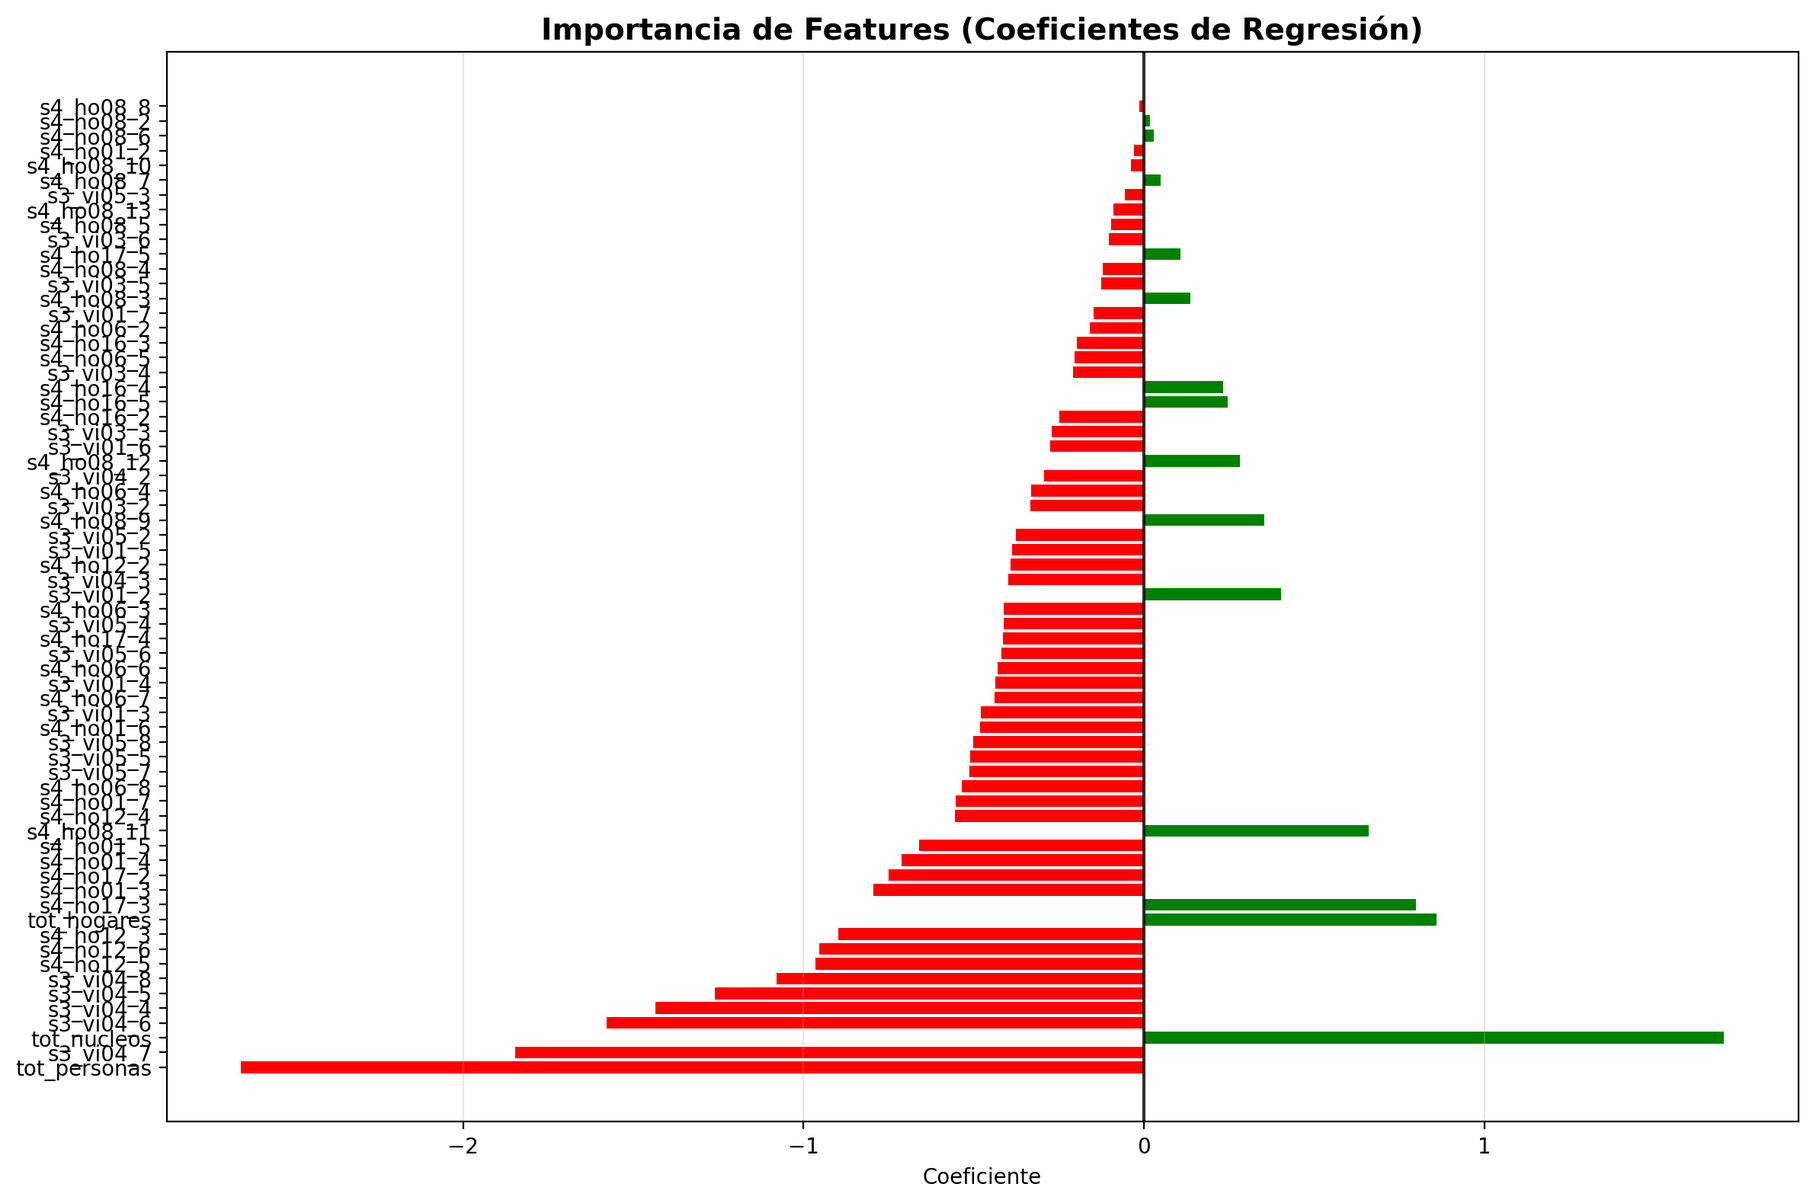
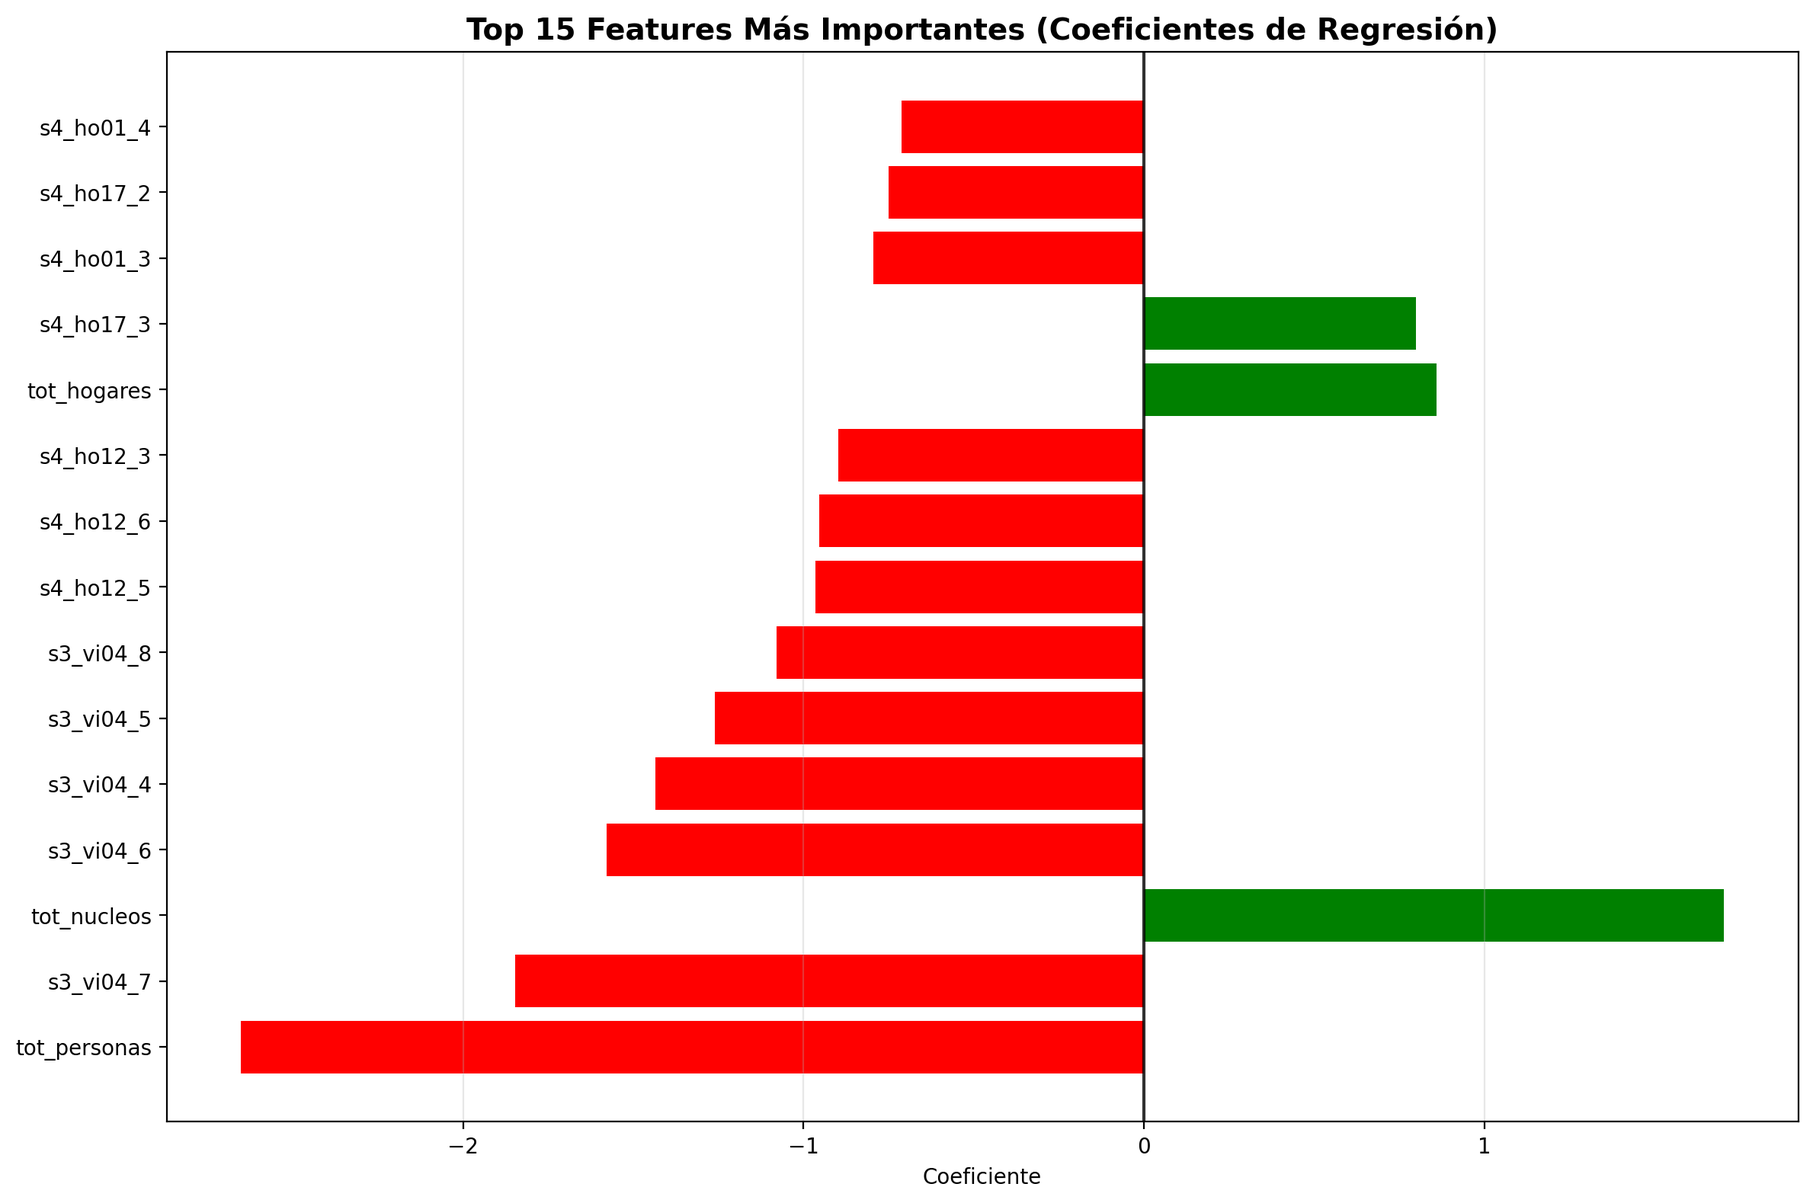
correccion grafico

Changed region(s): [[0.1244, 0.0621, 0.9643, 0.8999], [0.0, 0.0621, 0.0933, 0.8999], [0.2488, 0.0, 0.8398, 0.031]]

diff --git a/docs/regresion_hogares.html b/docs/regresion_hogares.html
@@ -237,7 +237,7 @@ pre > code.sourceCode > span > a:first-child::before { text-decoration: underlin
 </section>
 <section id="carga-y-exploración-del-dataset" class="level2">
 <h2 class="anchored" data-anchor-id="carga-y-exploración-del-dataset">Carga y Exploración del Dataset</h2>
-<div id="1373eb32" class="cell" data-execution_count="1">
+<div id="1af12751" class="cell" data-execution_count="1">
 <details class="code-fold">
 <summary>Code</summary>
 <div class="code-copy-outer-scaffold"><div class="sourceCode cell-code" id="cb1"><pre class="sourceCode python code-with-copy"><code class="sourceCode python"><span id="cb1-1"><a href="#cb1-1" aria-hidden="true" tabindex="-1"></a><span class="im">import</span> pandas <span class="im">as</span> pd</span>
@@ -262,7 +262,7 @@ pre > code.sourceCode > span > a:first-child::before { text-decoration: underlin
 <pre><code>=== SISTEMA DE REGRESIÓN - DECILES SOCIOECONÓMICOS ===</code></pre>
 </div>
 </div>
-<div id="84453052" class="cell" data-execution_count="2">
+<div id="ba5c6527" class="cell" data-execution_count="2">
 <details class="code-fold">
 <summary>Code</summary>
 <div class="code-copy-outer-scaffold"><div class="sourceCode cell-code" id="cb3"><pre class="sourceCode python code-with-copy"><code class="sourceCode python"><span id="cb3-1"><a href="#cb3-1" aria-hidden="true" tabindex="-1"></a><span class="co"># Cargar datos principales</span></span>
@@ -276,7 +276,7 @@ pre > code.sourceCode > span > a:first-child::before { text-decoration: underlin
 Columnas disponibles: ['s1_id06_cod', 's1_id06_des', 's1_id05_cod', 's1_id05_des', 's1_id04_cod', 's1_id04_des', 's1_id03', 's3_vi02', 's3_vi05_est', 's3_vi04_est', 's3_vi03_est', 's3_vi05', 's3_vi04', 's3_vi03', 's3_vi01', 's4_ho08', 's4_ho17', 's4_ho16', 's4_ho06', 's4_ho01', 's4_ho19', 's4_ho12', 's4_ho21', 's4_ho22', 'decil', 'tipo_pob_rs18', 'tot_hogares', 'tot_nucleos', 'tot_personas']</code></pre>
 </div>
 </div>
-<div id="0de2e59c" class="cell" data-execution_count="3">
+<div id="65b6d2a4" class="cell" data-execution_count="3">
 <details class="code-fold">
 <summary>Code</summary>
 <div class="code-copy-outer-scaffold"><div class="sourceCode cell-code" id="cb5"><pre class="sourceCode python code-with-copy"><code class="sourceCode python"><span id="cb5-1"><a href="#cb5-1" aria-hidden="true" tabindex="-1"></a><span class="co"># Diccionario de variables conocidas</span></span>
@@ -326,7 +326,7 @@ s4_ho17: Combustible para cocinar</code></pre>
 </section>
 <section id="exploración-de-datos" class="level2">
 <h2 class="anchored" data-anchor-id="exploración-de-datos">Exploración de Datos</h2>
-<div id="e022d550" class="cell" data-execution_count="4">
+<div id="0083ba8e" class="cell" data-execution_count="4">
 <details class="code-fold">
 <summary>Code</summary>
 <div class="code-copy-outer-scaffold"><div class="sourceCode cell-code" id="cb7"><pre class="sourceCode python code-with-copy"><code class="sourceCode python"><span id="cb7-1"><a href="#cb7-1" aria-hidden="true" tabindex="-1"></a><span class="bu">print</span>(<span class="st">"=== EXPLORACIÓN INICIAL ==="</span>)</span>
@@ -499,7 +499,7 @@ Primeras 5 filas:</code></pre>
 </div>
 </div>
 </div>
-<div id="23e31110" class="cell" data-execution_count="5">
+<div id="19118b84" class="cell" data-execution_count="5">
 <details class="code-fold">
 <summary>Code</summary>
 <div class="code-copy-outer-scaffold"><div class="sourceCode cell-code" id="cb9"><pre class="sourceCode python code-with-copy"><code class="sourceCode python"><span id="cb9-1"><a href="#cb9-1" aria-hidden="true" tabindex="-1"></a><span class="co"># Estadísticas descriptivas de variables clave</span></span>
@@ -515,7 +515,7 @@ Primeras 5 filas:</code></pre>
 <pre><code>=== ESTADÍSTICAS DESCRIPTIVAS ===</code></pre>
 </div>
 </div>
-<div id="b40ff64d" class="cell" data-execution_count="6">
+<div id="aa68317f" class="cell" data-execution_count="6">
 <details class="code-fold">
 <summary>Code</summary>
 <div class="code-copy-outer-scaffold"><div class="sourceCode cell-code" id="cb11"><pre class="sourceCode python code-with-copy"><code class="sourceCode python"><span id="cb11-1"><a href="#cb11-1" aria-hidden="true" tabindex="-1"></a><span class="co"># Verificar valores faltantes</span></span>
@@ -548,7 +548,7 @@ Primeras 5 filas:</code></pre>
 </section>
 <section id="definición-de-variable-objetivo-y-features" class="level2">
 <h2 class="anchored" data-anchor-id="definición-de-variable-objetivo-y-features">Definición de Variable Objetivo y Features</h2>
-<div id="34f3e333" class="cell" data-execution_count="7">
+<div id="e920eaa8" class="cell" data-execution_count="7">
 <details class="code-fold">
 <summary>Code</summary>
 <div class="code-copy-outer-scaffold"><div class="sourceCode cell-code" id="cb13"><pre class="sourceCode python code-with-copy"><code class="sourceCode python"><span id="cb13-1"><a href="#cb13-1" aria-hidden="true" tabindex="-1"></a><span class="bu">print</span>(<span class="st">"=== DEFINIENDO VARIABLE OBJETIVO ==="</span>)</span>
@@ -594,7 +594,7 @@ Name: decil, dtype: int64</code></pre>
 </div>
 </div>
 </div>
-<div id="be0b5d70" class="cell" data-execution_count="8">
+<div id="202669be" class="cell" data-execution_count="8">
 <details class="code-fold">
 <summary>Code</summary>
 <div class="code-copy-outer-scaffold"><div class="sourceCode cell-code" id="cb15"><pre class="sourceCode python code-with-copy"><code class="sourceCode python"><span id="cb15-1"><a href="#cb15-1" aria-hidden="true" tabindex="-1"></a><span class="bu">print</span>(<span class="st">"=== SELECCIONANDO Y CLASIFICANDO FEATURES ==="</span>)</span>
@@ -645,7 +645,7 @@ Total features: 13</code></pre>
 </section>
 <section id="preparación-de-datos" class="level2">
 <h2 class="anchored" data-anchor-id="preparación-de-datos">Preparación de Datos</h2>
-<div id="4da521c6" class="cell" data-execution_count="9">
+<div id="636bd3db" class="cell" data-execution_count="9">
 <details class="code-fold">
 <summary>Code</summary>
 <div class="code-copy-outer-scaffold"><div class="sourceCode cell-code" id="cb17"><pre class="sourceCode python code-with-copy"><code class="sourceCode python"><span id="cb17-1"><a href="#cb17-1" aria-hidden="true" tabindex="-1"></a><span class="bu">print</span>(<span class="st">"=== PREPARANDO DATOS PARA EL MODELO ==="</span>)</span>
@@ -681,7 +681,7 @@ Features numéricas: ['tot_hogares', 'tot_nucleos', 'tot_personas']
 Features categóricas: ['s3_vi01', 's3_vi03', 's3_vi04', 's3_vi05', 's4_ho01', 's4_ho06', 's4_ho08', 's4_ho12', 's4_ho16', 's4_ho17']</code></pre>
 </div>
 </div>
-<div id="0133d435" class="cell" data-execution_count="10">
+<div id="9fa4e65d" class="cell" data-execution_count="10">
 <details class="code-fold">
 <summary>Code</summary>
 <div class="code-copy-outer-scaffold"><div class="sourceCode cell-code" id="cb19"><pre class="sourceCode python code-with-copy"><code class="sourceCode python"><span id="cb19-1"><a href="#cb19-1" aria-hidden="true" tabindex="-1"></a><span class="co"># Estadísticas de las features</span></span>
@@ -698,7 +698,7 @@ Features categóricas: ['s3_vi01', 's3_vi03', 's3_vi04', 's3_vi05', 's4_ho01', '
 </section>
 <section id="división-de-datos" class="level2">
 <h2 class="anchored" data-anchor-id="división-de-datos">División de Datos</h2>
-<div id="349b97d5" class="cell" data-execution_count="11">
+<div id="f6b0dcff" class="cell" data-execution_count="11">
 <details class="code-fold">
 <summary>Code</summary>
 <div class="code-copy-outer-scaffold"><div class="sourceCode cell-code" id="cb21"><pre class="sourceCode python code-with-copy"><code class="sourceCode python"><span id="cb21-1"><a href="#cb21-1" aria-hidden="true" tabindex="-1"></a><span class="bu">print</span>(<span class="st">"=== DIVIDIENDO DATOS ==="</span>)</span>
@@ -724,7 +724,7 @@ Desviación estándar: 2.36</code></pre>
 </section>
 <section id="definición-y-entrenamiento-del-modelo" class="level2">
 <h2 class="anchored" data-anchor-id="definición-y-entrenamiento-del-modelo">Definición y Entrenamiento del Modelo</h2>
-<div id="c9691400" class="cell" data-execution_count="12">
+<div id="1bc82904" class="cell" data-execution_count="12">
 <details class="code-fold">
 <summary>Code</summary>
 <div class="code-copy-outer-scaffold"><div class="sourceCode cell-code" id="cb23"><pre class="sourceCode python code-with-copy"><code class="sourceCode python"><span id="cb23-1"><a href="#cb23-1" aria-hidden="true" tabindex="-1"></a><span class="bu">print</span>(<span class="st">"=== CREANDO PIPELINE DE REGRESIÓN ==="</span>)</span>
@@ -762,7 +762,7 @@ Variables categóricas: ['s3_vi01', 's3_vi03', 's3_vi04', 's3_vi05', 's4_ho01', 
 </section>
 <section id="generación-de-predicciones" class="level2">
 <h2 class="anchored" data-anchor-id="generación-de-predicciones">Generación de Predicciones</h2>
-<div id="15f2261f" class="cell" data-execution_count="13">
+<div id="232ad710" class="cell" data-execution_count="13">
 <details class="code-fold">
 <summary>Code</summary>
 <div class="code-copy-outer-scaffold"><div class="sourceCode cell-code" id="cb25"><pre class="sourceCode python code-with-copy"><code class="sourceCode python"><span id="cb25-1"><a href="#cb25-1" aria-hidden="true" tabindex="-1"></a><span class="bu">print</span>(<span class="st">"=== REALIZANDO PREDICCIONES ==="</span>)</span>
@@ -783,7 +783,7 @@ Rango real: [1.00, 10.00]</code></pre>
 </section>
 <section id="evaluación-del-modelo" class="level2">
 <h2 class="anchored" data-anchor-id="evaluación-del-modelo">Evaluación del Modelo</h2>
-<div id="6b4976b5" class="cell" data-execution_count="14">
+<div id="58cdc3b0" class="cell" data-execution_count="14">
 <details class="code-fold">
 <summary>Code</summary>
 <div class="code-copy-outer-scaffold"><div class="sourceCode cell-code" id="cb27"><pre class="sourceCode python code-with-copy"><code class="sourceCode python"><span id="cb27-1"><a href="#cb27-1" aria-hidden="true" tabindex="-1"></a><span class="bu">print</span>(<span class="st">"=== EVALUACIÓN DEL MODELO ==="</span>)</span>
@@ -824,7 +824,7 @@ R² Score       0.378183 0.392704     Varianza explicada: 39.3%</code></pre>
 <h2 class="anchored" data-anchor-id="visualizaciones">Visualizaciones</h2>
 <section id="valores-reales-vs-predichos" class="level3">
 <h3 class="anchored" data-anchor-id="valores-reales-vs-predichos">Valores Reales vs Predichos</h3>
-<div id="eb386cc2" class="cell" data-execution_count="15">
+<div id="bdb40854" class="cell" data-execution_count="15">
 <details class="code-fold">
 <summary>Code</summary>
 <div class="code-copy-outer-scaffold"><div class="sourceCode cell-code" id="cb29"><pre class="sourceCode python code-with-copy"><code class="sourceCode python"><span id="cb29-1"><a href="#cb29-1" aria-hidden="true" tabindex="-1"></a>plt.figure(figsize<span class="op">=</span>(<span class="dv">10</span>, <span class="dv">8</span>))</span>
@@ -853,7 +853,7 @@ R² Score       0.378183 0.392704     Varianza explicada: 39.3%</code></pre>
 </section>
 <section id="distribución-de-errores" class="level3">
 <h3 class="anchored" data-anchor-id="distribución-de-errores">Distribución de Errores</h3>
-<div id="2d01bd3a" class="cell" data-execution_count="16">
+<div id="ac4880e1" class="cell" data-execution_count="16">
 <details class="code-fold">
 <summary>Code</summary>
 <div class="code-copy-outer-scaffold"><div class="sourceCode cell-code" id="cb30"><pre class="sourceCode python code-with-copy"><code class="sourceCode python"><span id="cb30-1"><a href="#cb30-1" aria-hidden="true" tabindex="-1"></a>plt.figure(figsize<span class="op">=</span>(<span class="dv">12</span>, <span class="dv">5</span>))</span>
@@ -891,7 +891,7 @@ R² Score       0.378183 0.392704     Varianza explicada: 39.3%</code></pre>
 </section>
 <section id="curva-de-aprendizaje" class="level3">
 <h3 class="anchored" data-anchor-id="curva-de-aprendizaje">Curva de Aprendizaje</h3>
-<div id="c1b5f528" class="cell" data-execution_count="17">
+<div id="04892607" class="cell" data-execution_count="17">
 <details class="code-fold">
 <summary>Code</summary>
 <div class="code-copy-outer-scaffold"><div class="sourceCode cell-code" id="cb31"><pre class="sourceCode python code-with-copy"><code class="sourceCode python"><span id="cb31-1"><a href="#cb31-1" aria-hidden="true" tabindex="-1"></a><span class="bu">print</span>(<span class="st">"=== GENERANDO CURVA DE APRENDIZAJE ==="</span>)</span>
@@ -936,7 +936,7 @@ R² Score       0.378183 0.392704     Varianza explicada: 39.3%</code></pre>
 </section>
 <section id="análisis-de-importancia-de-features" class="level2">
 <h2 class="anchored" data-anchor-id="análisis-de-importancia-de-features">Análisis de Importancia de Features</h2>
-<div id="77983e72" class="cell" data-execution_count="18">
+<div id="af196fae" class="cell" data-execution_count="18">
 <details class="code-fold">
 <summary>Code</summary>
 <div class="code-copy-outer-scaffold"><div class="sourceCode cell-code" id="cb33"><pre class="sourceCode python code-with-copy"><code class="sourceCode python"><span id="cb33-1"><a href="#cb33-1" aria-hidden="true" tabindex="-1"></a><span class="bu">print</span>(<span class="st">"=== ANÁLISIS DE IMPORTANCIA DE FEATURES ==="</span>)</span>
@@ -1013,22 +1013,23 @@ s4_ho17_2                 |   -0.750 | Combustible para cocinar (categoría 2)
 s4_ho01_4                 |   -0.713 | Procedencia del agua (categoría 4)</code></pre>
 </div>
 </div>
-<div id="0aec744a" class="cell" data-execution_count="19">
+<div id="0b17a59f" class="cell" data-execution_count="19">
 <details class="code-fold">
 <summary>Code</summary>
-<div class="code-copy-outer-scaffold"><div class="sourceCode cell-code" id="cb35"><pre class="sourceCode python code-with-copy"><code class="sourceCode python"><span id="cb35-1"><a href="#cb35-1" aria-hidden="true" tabindex="-1"></a><span class="co"># Visualizar importancia de features</span></span>
+<div class="code-copy-outer-scaffold"><div class="sourceCode cell-code" id="cb35"><pre class="sourceCode python code-with-copy"><code class="sourceCode python"><span id="cb35-1"><a href="#cb35-1" aria-hidden="true" tabindex="-1"></a><span class="co"># Visualizar importancia de features (solo top 15)</span></span>
 <span id="cb35-2"><a href="#cb35-2" aria-hidden="true" tabindex="-1"></a>plt.figure(figsize<span class="op">=</span>(<span class="dv">12</span>, <span class="dv">8</span>))</span>
-<span id="cb35-3"><a href="#cb35-3" aria-hidden="true" tabindex="-1"></a>colors <span class="op">=</span> [<span class="st">'red'</span> <span class="cf">if</span> coef <span class="op">&lt;</span> <span class="dv">0</span> <span class="cf">else</span> <span class="st">'green'</span> <span class="cf">for</span> coef <span class="kw">in</span> feature_importance[<span class="st">'coefficient'</span>]]</span>
-<span id="cb35-4"><a href="#cb35-4" aria-hidden="true" tabindex="-1"></a>plt.barh(<span class="bu">range</span>(<span class="bu">len</span>(feature_importance)), feature_importance[<span class="st">'coefficient'</span>], color<span class="op">=</span>colors)</span>
-<span id="cb35-5"><a href="#cb35-5" aria-hidden="true" tabindex="-1"></a>plt.yticks(<span class="bu">range</span>(<span class="bu">len</span>(feature_importance)), feature_importance[<span class="st">'feature'</span>])</span>
-<span id="cb35-6"><a href="#cb35-6" aria-hidden="true" tabindex="-1"></a>plt.xlabel(<span class="st">'Coeficiente'</span>)</span>
-<span id="cb35-7"><a href="#cb35-7" aria-hidden="true" tabindex="-1"></a>plt.title(<span class="st">'Importancia de Features (Coeficientes de Regresión)'</span>, fontsize<span class="op">=</span><span class="dv">14</span>, fontweight<span class="op">=</span><span class="st">'bold'</span>)</span>
-<span id="cb35-8"><a href="#cb35-8" aria-hidden="true" tabindex="-1"></a>plt.grid(axis<span class="op">=</span><span class="st">'x'</span>, alpha<span class="op">=</span><span class="fl">0.3</span>)</span>
-<span id="cb35-9"><a href="#cb35-9" aria-hidden="true" tabindex="-1"></a></span>
-<span id="cb35-10"><a href="#cb35-10" aria-hidden="true" tabindex="-1"></a><span class="co"># Añadir línea en x=0</span></span>
-<span id="cb35-11"><a href="#cb35-11" aria-hidden="true" tabindex="-1"></a>plt.axvline(x<span class="op">=</span><span class="dv">0</span>, color<span class="op">=</span><span class="st">'black'</span>, linestyle<span class="op">=</span><span class="st">'-'</span>, alpha<span class="op">=</span><span class="fl">0.8</span>)</span>
-<span id="cb35-12"><a href="#cb35-12" aria-hidden="true" tabindex="-1"></a>plt.tight_layout()</span>
-<span id="cb35-13"><a href="#cb35-13" aria-hidden="true" tabindex="-1"></a>plt.show()</span></code></pre></div><button title="Copy to Clipboard" class="code-copy-button"><i class="bi"></i></button></div>
+<span id="cb35-3"><a href="#cb35-3" aria-hidden="true" tabindex="-1"></a>top_features <span class="op">=</span> feature_importance.head(<span class="dv">15</span>)  <span class="co"># Solo las 15 más importantes</span></span>
+<span id="cb35-4"><a href="#cb35-4" aria-hidden="true" tabindex="-1"></a>colors <span class="op">=</span> [<span class="st">'red'</span> <span class="cf">if</span> coef <span class="op">&lt;</span> <span class="dv">0</span> <span class="cf">else</span> <span class="st">'green'</span> <span class="cf">for</span> coef <span class="kw">in</span> top_features[<span class="st">'coefficient'</span>]]</span>
+<span id="cb35-5"><a href="#cb35-5" aria-hidden="true" tabindex="-1"></a>plt.barh(<span class="bu">range</span>(<span class="bu">len</span>(top_features)), top_features[<span class="st">'coefficient'</span>], color<span class="op">=</span>colors)</span>
+<span id="cb35-6"><a href="#cb35-6" aria-hidden="true" tabindex="-1"></a>plt.yticks(<span class="bu">range</span>(<span class="bu">len</span>(top_features)), top_features[<span class="st">'feature'</span>])</span>
+<span id="cb35-7"><a href="#cb35-7" aria-hidden="true" tabindex="-1"></a>plt.xlabel(<span class="st">'Coeficiente'</span>)</span>
+<span id="cb35-8"><a href="#cb35-8" aria-hidden="true" tabindex="-1"></a>plt.title(<span class="st">'Top 15 Features Más Importantes (Coeficientes de Regresión)'</span>, fontsize<span class="op">=</span><span class="dv">14</span>, fontweight<span class="op">=</span><span class="st">'bold'</span>)</span>
+<span id="cb35-9"><a href="#cb35-9" aria-hidden="true" tabindex="-1"></a>plt.grid(axis<span class="op">=</span><span class="st">'x'</span>, alpha<span class="op">=</span><span class="fl">0.3</span>)</span>
+<span id="cb35-10"><a href="#cb35-10" aria-hidden="true" tabindex="-1"></a></span>
+<span id="cb35-11"><a href="#cb35-11" aria-hidden="true" tabindex="-1"></a><span class="co"># Añadir línea en x=0</span></span>
+<span id="cb35-12"><a href="#cb35-12" aria-hidden="true" tabindex="-1"></a>plt.axvline(x<span class="op">=</span><span class="dv">0</span>, color<span class="op">=</span><span class="st">'black'</span>, linestyle<span class="op">=</span><span class="st">'-'</span>, alpha<span class="op">=</span><span class="fl">0.8</span>)</span>
+<span id="cb35-13"><a href="#cb35-13" aria-hidden="true" tabindex="-1"></a>plt.tight_layout()</span>
+<span id="cb35-14"><a href="#cb35-14" aria-hidden="true" tabindex="-1"></a>plt.show()</span></code></pre></div><button title="Copy to Clipboard" class="code-copy-button"><i class="bi"></i></button></div>
 </details>
 <div class="cell-output cell-output-display">
 <div>
@@ -1041,7 +1042,7 @@ s4_ho01_4                 |   -0.713 | Procedencia del agua (categoría 4)</code
 </section>
 <section id="análisis-por-deciles" class="level2">
 <h2 class="anchored" data-anchor-id="análisis-por-deciles">Análisis por Deciles</h2>
-<div id="8574b402" class="cell" data-execution_count="20">
+<div id="5f957e6e" class="cell" data-execution_count="20">
 <details class="code-fold">
 <summary>Code</summary>
 <div class="code-copy-outer-scaffold"><div class="sourceCode cell-code" id="cb36"><pre class="sourceCode python code-with-copy"><code class="sourceCode python"><span id="cb36-1"><a href="#cb36-1" aria-hidden="true" tabindex="-1"></a><span class="bu">print</span>(<span class="st">"=== ANÁLISIS POR DECILES ==="</span>)</span>
@@ -1081,7 +1082,7 @@ decil_real
 10                  6.107  1.227  3.893  1.227     3.945</code></pre>
 </div>
 </div>
-<div id="3729fa23" class="cell" data-execution_count="21">
+<div id="8dc99626" class="cell" data-execution_count="21">
 <details class="code-fold">
 <summary>Code</summary>
 <div class="code-copy-outer-scaffold"><div class="sourceCode cell-code" id="cb38"><pre class="sourceCode python code-with-copy"><code class="sourceCode python"><span id="cb38-1"><a href="#cb38-1" aria-hidden="true" tabindex="-1"></a><span class="co"># Visualización por deciles</span></span>
